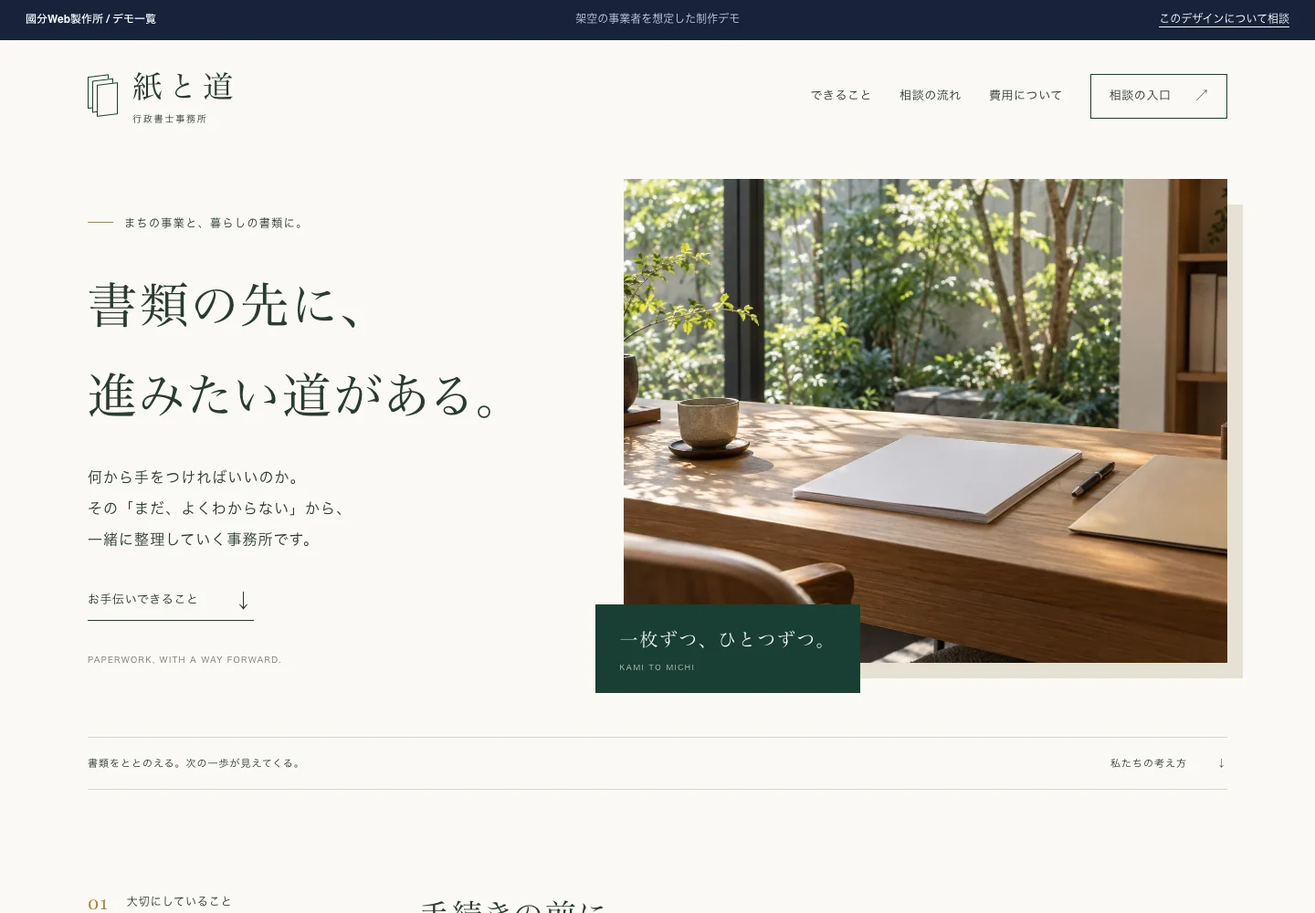
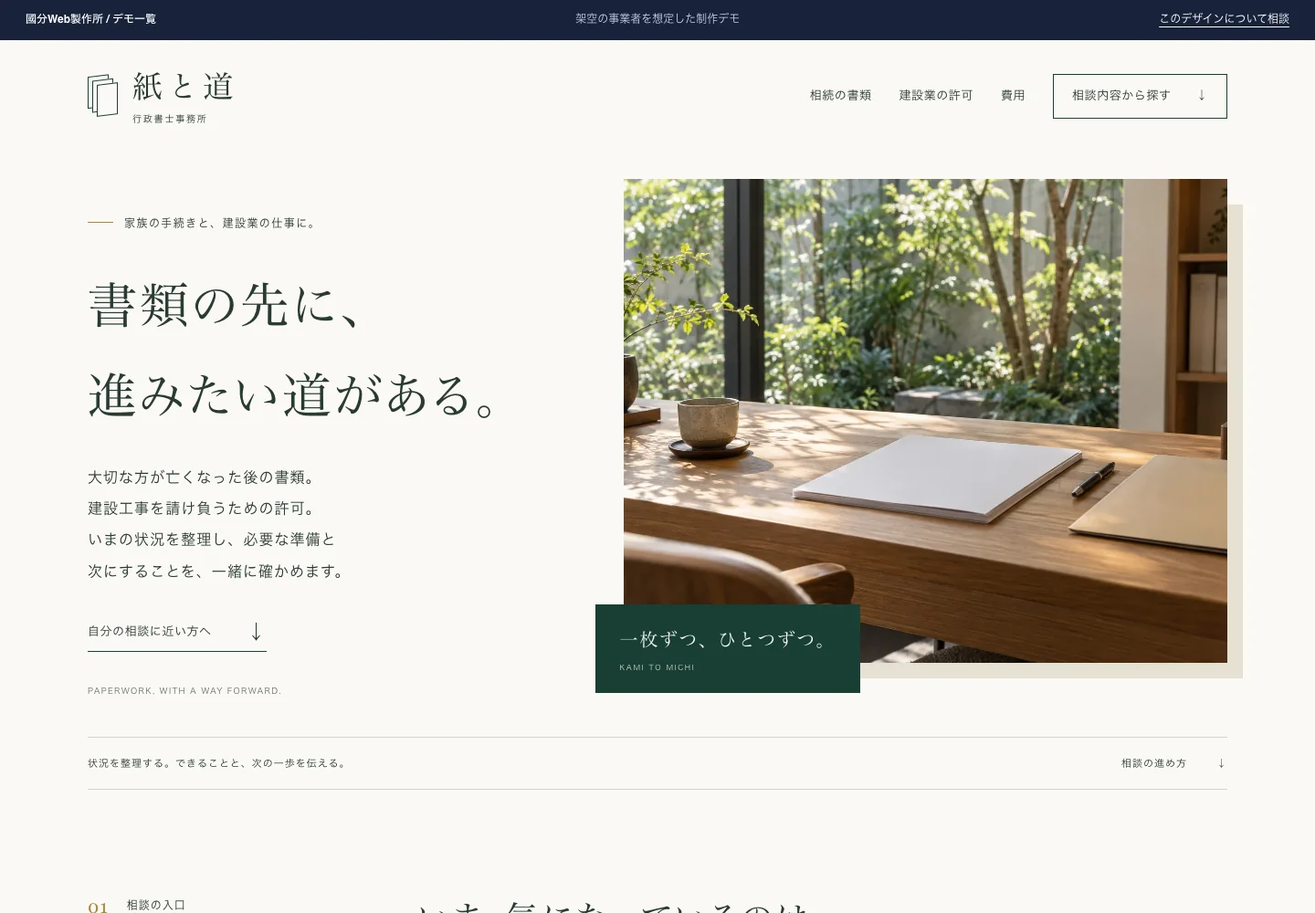
Rewrite legal demo around inheritance and construction permits

diff --git a/demos/legal/index.html b/demos/legal/index.html
@@ -4,89 +4,96 @@
   <meta charset="utf-8">
   <meta name="viewport" content="width=device-width, initial-scale=1">
   <meta name="robots" content="noindex,follow">
-  <meta name="description" content="架空の行政書士事務所「紙と道」を想定した、國分Web製作所のウェブサイト制作デモ。業務の範囲、準備、費用、相談の流れを丁寧に伝えるデザインです。">
+  <meta name="description" content="相続の書類づくりと建設業許可を、相談者の状況から案内する行政書士事務所の制作デモ。専門用語の注釈、依頼できる範囲、準備と費用を整理した國分Web製作所の制作例です。">
   <meta name="theme-color" content="#193f35">
-  <title>紙と道 行政書士事務所｜制作デモ</title>
+  <title>相続・建設業許可｜紙と道 行政書士事務所｜制作デモ</title>
   <link rel="icon" href="../../favicon.svg" type="image/svg+xml">
   <link rel="stylesheet" href="../demo.css">
-  <link rel="stylesheet" href="style.css">
+  <link rel="stylesheet" href="style.css?v=20260926.1">
 </head>
 <body>
   <a class="skip-link" href="#main">本文へ移動</a>
   <aside class="demo-notice" aria-label="制作デモの案内"><a href="../../index.html#demos">國分Web製作所 / デモ一覧</a><span>架空の事業者を想定した制作デモ</span><a href="../../contact.html?demo=legal">このデザインについて相談</a></aside>
   <header class="site-header wrap">
-    <a class="brand" href="#" aria-label="紙と道 行政書士事務所 トップ">
-      <span class="brand-mark" aria-hidden="true"><i></i><i></i><i></i></span>
-      <span><b>紙と道</b><small>行政書士事務所</small></span>
-    </a>
-    <nav aria-label="ページ内メニュー">
-      <a href="#services">できること</a><a href="#flow">相談の流れ</a><a href="#fees">費用について</a><a class="nav-contact" href="#contact">相談の入口 <span aria-hidden="true">↗</span></a>
-    </nav>
+    <a class="brand" href="#" aria-label="紙と道 行政書士事務所 トップ"><span class="brand-mark" aria-hidden="true"><i></i><i></i><i></i></span><span><b>紙と道</b><small>行政書士事務所</small></span></a>
+    <nav aria-label="ページ内メニュー"><a href="#inheritance">相続の書類</a><a href="#construction">建設業の許可</a><a href="#fees">費用</a><a class="nav-contact" href="#services">相談内容から探す <span aria-hidden="true">↓</span></a></nav>
   </header>
 
   <main id="main">
     <section class="hero wrap" aria-labelledby="hero-title">
       <div class="hero-copy">
-        <p class="eyebrow"><span></span> まちの事業と、暮らしの書類に。</p>
+        <p class="eyebrow"><span></span> 家族の手続きと、建設業の仕事に。</p>
         <h1 id="hero-title">書類の先に、<br>進みたい道がある。</h1>
-        <p class="hero-description">何から手をつければいいのか。<br>その「まだ、よくわからない」から、<br>一緒に整理していく事務所です。</p>
-        <a class="text-link" href="#services">お手伝いできること <span aria-hidden="true">↓</span></a>
+        <p class="hero-description">大切な方が亡くなった後の書類。<br>建設工事を請け負うための許可。<br>いまの状況を整理し、必要な準備と<br>次にすることを、一緒に確かめます。</p>
+        <a class="text-link" href="#services">自分の相談に近い方へ <span aria-hidden="true">↓</span></a>
         <p class="hero-en">PAPERWORK, WITH A WAY FORWARD.</p>
       </div>
-      <figure class="hero-photo">
-        <img src="images/hero.webp" width="1536" height="1024" alt="緑を望む窓辺の相談机に、白紙の書類とペンが整えられている" fetchpriority="high">
-        <figcaption><span>一枚ずつ、ひとつずつ。</span><small>KAMI TO MICHI</small></figcaption>
-      </figure>
-      <div class="hero-bottom"><span>書類をととのえる。次の一歩が見えてくる。</span><a href="#approach">私たちの考え方 <span aria-hidden="true">↓</span></a></div>
+      <figure class="hero-photo"><img src="images/hero.webp" width="1536" height="1024" alt="緑を望む窓辺の相談机に、白紙の書類とペンが整えられている。AI生成のイメージ。" fetchpriority="high"><figcaption><span>一枚ずつ、ひとつずつ。</span><small>KAMI TO MICHI</small></figcaption></figure>
+      <div class="hero-bottom"><span>状況を整理する。できることと、次の一歩を伝える。</span><a href="#flow">相談の進め方 <span aria-hidden="true">↓</span></a></div>
     </section>
 
-    <section class="approach section wrap" id="approach" aria-labelledby="approach-title">
-      <div class="section-label"><span class="number">01</span><span>大切にしていること<small>OUR APPROACH</small></span></div>
-      <div class="approach-main">
-        <h2 id="approach-title">手続きの前に、<br>お話を聞くことから。</h2>
-        <div class="approach-text"><p>お店を始めたい。事業の書類を見直したい。<br class="desktop-br">けれど、何が必要なのかはまだ曖昧。</p><p>うまく説明できなくても、大丈夫です。<br>いまの状況と、これからしたいことを伺い、<br class="desktop-br">必要な確認を一つずつ整理します。</p><p>内容を確認し、対応できる範囲をご案内。<br class="desktop-br">専門用語も、そのままにはしません。</p></div>
+    <section class="route-section section wrap" id="services" aria-labelledby="services-title">
+      <div class="section-top"><div class="section-label"><span class="number">01</span><span>相談の入口<small>START WITH YOUR SITUATION</small></span></div><div><h2 id="services-title">いま、気になっているのは<br>どちらのことですか。</h2><p class="section-lead">手続きの名前を知らなくても、ここから探せます。</p></div></div>
+      <div class="route-list">
+        <a class="route" href="#inheritance"><span class="route-letter">A</span><div><span class="route-context">ご家族のこと</span><h3>誰が、何を受け継ぐのか。<br>書類を整理したい。</h3><p>相続の調査・書類作成、遺言の準備</p><p class="term-note">※ 相続：亡くなった方の財産や借金などを受け継ぐこと。遺言：亡くなった後の財産の渡し方などについて、法律で定められた形式で意思を残すこと。</p></div><span class="route-arrow" aria-hidden="true">↓</span></a>
+        <a class="route" href="#construction"><span class="route-letter">B</span><div><span class="route-context">建設業のお仕事</span><h3>許可を取りたい。<br>更新や届出を進めたい。</h3><p>建設業許可の申請・取得後の手続き</p><p class="term-note">※ 建設業許可：一定の建設工事を請け負うために必要な、行政の許可。すべての工事で必要になるわけではありません。</p></div><span class="route-arrow" aria-hidden="true">↓</span></a>
       </div>
-      <figure class="hands-photo"><img src="images/hands.webp" width="1536" height="1024" alt="相談机で無地のファイルを一つずつ整理する手元" loading="lazy"><figcaption>「何をしたいか」から、必要なことを整理します。</figcaption></figure>
+      <p class="route-footnote">以下は、実際の制度・業務をもとに構成した架空の事務所のサービス案内です。</p>
     </section>
 
-    <section class="services section" id="services" aria-labelledby="services-title">
-      <div class="wrap">
-        <div class="section-top"><div class="section-label"><span class="number">02</span><span>お手伝いできること<small>OUR SERVICES</small></span></div><h2 id="services-title">話したいことから、<br>見つけてください。</h2></div>
-        <div class="service-list">
-          <article class="service-row"><span class="service-index">A</span><div class="service-heading"><p>事業を始める方へ</p><h3>お店や事業の<br>手続きの整理</h3></div><div class="service-detail"><p>やりたい事業の内容や場所を伺い、手続きに向けて確認することや、準備する書類を整理します。</p><dl><dt>たとえば</dt><dd>許認可に関する書類の準備相談<br>開業までの確認事項の整理</dd></dl></div></article>
-          <article class="service-row"><span class="service-index">B</span><div class="service-heading"><p>事業を続ける方へ</p><h3>日々の書類を、<br>わかる形に</h3></div><div class="service-detail"><p>手元にある書類と、ご相談の目的を確認。必要な情報や不足している資料を見えるようにします。</p><dl><dt>たとえば</dt><dd>事業に関する書類の棚卸し<br>手続きに向けた資料の整理</dd></dl></div></article>
-          <article class="service-row"><span class="service-index">C</span><div class="service-heading"><p>相談先に迷っている方へ</p><h3>はじめの相談、<br>状況の整理</h3></div><div class="service-detail"><p>「これは相談してよいこと？」という段階から。内容を伺い、当事務所で対応できる範囲をお伝えします。</p><dl><dt>たとえば</dt><dd>相談したいことの言語化<br>依頼する前の進め方の確認</dd></dl></div></article>
-        </div>
-        <div class="scope-note"><span aria-hidden="true">※</span><p>掲載内容は、架空の事務所を想定したサービスの例です。個別の内容を確認したうえで対応範囲をご案内する構成としており、手続きの可否や結果を保証するものではありません。</p></div>
-        <div class="business-story"><figure><img src="images/atelier.webp" width="1536" height="1024" alt="木の扉と鉢植えのある、小さな工房をイメージした店舗外観" loading="lazy"></figure><div><p class="eyebrow">その先にある、日々のために。</p><h3>小さなはじまりに、<br>丁寧な準備を。</h3><p>夢中になれる仕事を、続けていけるように。<br>書類の向こうにある、あなたの思いも<br>大切にしたいと考えています。</p><a class="text-link" href="#flow">ご相談からの流れ <span aria-hidden="true">→</span></a></div></div>
-      </div>
-    </section>
+    <section class="service-chapter inheritance section" id="inheritance" aria-labelledby="inheritance-title"><div class="wrap">
+      <div class="chapter-intro"><div><div class="section-label"><span class="number">02 / A</span><span>相続の書類づくり<small>FOR YOUR FAMILY</small></span></div><h2 id="inheritance-title">何を集めるか。<br>誰と確かめるか。<br>そこから、順番に。</h2><p class="section-lead">「家族が亡くなったけれど、何から始めればよいか」。受け継ぐ人と財産を調べ、必要な書類を整えるお手伝いをします。</p><p class="term-note">※ 相続：亡くなった方の財産や借金などを受け継ぐこと。</p></div><figure><img src="images/hands.webp" width="1536" height="1024" alt="相談机でファイルを一つずつ確認する手元。AI生成のイメージ。" loading="lazy"><figcaption>手元にあるものと、これから確認するものを分けます。</figcaption></figure></div>
+      <h3 class="ledger-title">どこまで、お願いできますか。</h3>
+      <ol class="work-ledger">
+        <li><span class="work-no">01</span><div class="work-heading"><h4>受け継ぐ人を<br>確かめる</h4><p>家族関係が複雑で、誰の書類が必要か分からないときに。</p></div><div class="work-explanation"><p>戸籍を集めて、相続人を調べます。確認できた家族関係を図に整理し、手続きに関わる人を見えるようにします。</p><p class="term-note">※ 戸籍：出生・結婚など、身分や親族関係を記録した公的な書類。<br>※ 相続人：法律上、財産を受け継ぐ立場にある人。</p><p class="work-result"><span>整理するもの</span>関係者の一覧・家族関係の図</p></div></li>
+        <li><span class="work-no">02</span><div class="work-heading"><h4>財産と借入れを<br>一覧にする</h4><p>預金や家の資料が、あちこちに分かれているときに。</p></div><div class="work-explanation"><p>銀行の資料や土地・建物の資料などから、財産の内容を調べます。借入れなども確認し、分かっていることと追加で確認することを分けます。</p><p class="term-note">※ 財産目録：預貯金・不動産・借入金などをまとめた一覧。調査で確認できた内容を記載します。</p><p class="work-result"><span>整理するもの</span>財産目録・追加確認が必要な項目</p></div></li>
+        <li><span class="work-no">03</span><div class="work-heading"><h4>決まった分け方を<br>書類にする</h4><p>受け継ぐ人全員で、分け方に合意できているときに。</p></div><div class="work-explanation"><p>合意した内容を確認し、遺産分割協議書を作成します。話し合いの結論を、後の手続きで使える書類に整える業務です。</p><p class="term-note">※ 遺産分割協議書：受け継ぐ人全員が合意した、財産の分け方を記す書類。意見の対立を解決したり、交渉を代わったりする業務は含みません。</p><p class="work-result"><span>作成するもの</span>合意内容を記載した書類</p></div></li>
+      </ol>
+      <aside class="branch-note" aria-labelledby="will-title"><p class="small-label">これからの備えを考えたい方へ</p><h3 id="will-title">財産の渡し方を、今のうちに残す。</h3><p>遺言書を作りたい場合は、誰に何を残したいかを伺い、内容の整理や必要書類の準備を支援します。</p><p class="term-note">※ 遺言書：亡くなった後の財産の渡し方などを、法律で定められた形式で記す書類。方式により必要な準備が異なります。</p></aside>
+      <div class="scope-boundary"><h3>別の専門家が担当すること</h3><p>次の業務は当事務所で代行せず、内容に合う相談先をご案内します。</p><dl><div><dt>分け方をめぐる争い・交渉</dt><dd>弁護士へ</dd></div><div><dt>相続登記<span class="term-note">※ 土地・建物の所有者の記録を、受け継いだ人へ変更する手続き。</span></dt><dd>司法書士などへ</dd></div><div><dt>相続税の申告・税額の相談<span class="term-note">※ 相続税：受け継いだ財産などに応じてかかる税金。申告では、財産や税額などを税務署に届け出ます。</span></dt><dd>税理士へ</dd></div></dl><p class="scope-source">業務範囲の確認先：<a href="https://www.gyosei.or.jp/service/testament" target="_blank" rel="noopener noreferrer">日本行政書士会連合会「遺言・相続」 ↗</a></p></div>
+      <div class="topic-preparation"><div><p class="small-label">相続の相談で、最初に伺うこと</p><h3>まずは、この3つから。</h3></div><ol><li>亡くなった時期と、ご本人との関係</li><li>分かっている財産・借入れのこと</li><li>遺言書の有無と、いま困っていること</li></ol><p>新しく書類を集める前でも大丈夫です。手元にある資料から確認します。借入れや手続きの期限が気になる場合は、最初にお伝えください。</p></div>
+      <div class="chapter-actions"><a class="text-link" href="#flow">相談の流れ・費用を確認する <span aria-hidden="true">↓</span></a><a class="quiet-link" href="#construction">建設業の許可についても見る ↓</a></div>
+    </div></section>
+
+    <section class="service-chapter construction section" id="construction" aria-labelledby="construction-title"><div class="wrap">
+      <div class="chapter-intro"><div><div class="section-label"><span class="number">03 / B</span><span>建設業の許可<small>FOR YOUR BUSINESS</small></span></div><h2 id="construction-title">取りたい許可と、<br>今ある資料。<br>間にある準備を明確に。</h2><p class="section-lead">初めての申請も、許可を取った後も。工事の内容と現在の体制を伺い、条件の確認から書類の作成・申請まで支援します。</p><p class="term-note">※ 建設業許可：一定の建設工事を請け負うために必要な、行政の許可。工事の種類や金額などによって要否が変わります。<br>※ 申請：許可などを求める手続き。届出：変更などの事実を行政に知らせる手続き。</p></div><figure><img src="images/construction.webp" width="1536" height="1024" alt="建設会社の机に並べたヘルメット、図面、相談用の書類。AI生成のイメージ。" loading="lazy"><figcaption>これから請け負いたい工事を、準備の出発点に。</figcaption></figure></div>
+      <h3 class="ledger-title">いまの状況から、選べます。</h3>
+      <ol class="work-ledger">
+        <li><span class="work-no">01</span><div class="work-heading"><h4>初めて<br>許可を取りたい</h4><p>取引先から許可について確認された。仕事の幅を広げたい。</p></div><div class="work-explanation"><p>工事の内容を伺い、必要な許可の種類と許可要件を確認します。経営の経験、営業所技術者等の資格や経験、資金、社会保険の加入状況などを資料で確認。申請書類を作成し、ご本人に代わって提出します。</p><p class="term-note">※ 許可要件：許可を受けるために満たす条件。<br>※ 営業所技術者等：工事の契約などを行う拠点に置く、資格や経験などの条件を満たす技術者。<br>※ 社会保険：ここでは健康保険・厚生年金保険・雇用保険。加入の対象かどうかも確認します。</p><p class="work-result"><span>まず整理するもの</span>現在の条件・足りない証明資料・申請の段取り</p></div></li>
+        <li><span class="work-no">02</span><div class="work-heading"><h4>許可を更新したい。<br>工事の種類を増やしたい。</h4><p>有効期限が近い。新しい種類の工事にも対応したい。</p></div><div class="work-explanation"><p>今の許可の内容と期限を確認し、更新に必要な書類を整えます。別の種類の工事にも許可が必要な場合は、追加する条件を確認して申請を支援します。</p><p class="term-note">※ 更新：有効期間の後も許可を続けるための手続き。<br>※ 業種追加：今の許可に、別の工事の種類を加える手続き。</p><p class="work-result"><span>まず確認するもの</span>許可の通知書・これまでに提出した書類</p></div></li>
+        <li><span class="work-no">03</span><div class="work-heading"><h4>毎年の報告や、<br>変更の届出をしたい</h4><p>決算が終わった。役員や事業所の所在地が変わった。<span class="term-note">※ 決算：一定期間の売上・費用・財産の状態などをまとめること。</span></p></div><div class="work-explanation"><p>決算変更届の作成・提出を支援します。所在地や役員などに変更があった場合も、何をいつまでに届け出るかを確認し、必要な書類を整えます。</p><p class="term-note">※ 決算変更届：1年ごとの工事実績や収支や財産の状況などを、許可を出した行政に報告する届出。税務署への税の申告とは別の手続きです。</p><p class="work-result"><span>整理するもの</span>届出の種類・期限・提出する書類</p></div></li>
+      </ol>
+      <aside class="deadline-note" aria-labelledby="deadline-title"><div><p class="small-label">許可を取った後も、確認する日があります。</p><h3 id="deadline-title">毎年の報告と、5年ごとの更新。</h3></div><dl><div><dt>更新申請</dt><dd>有効期間は<strong>5年</strong>。続ける場合は、満了日の<strong>30日前まで</strong>に申請します。</dd></div><div><dt>毎年の事業報告</dt><dd>決算変更届<span class="inline-note">（工事実績や収支や財産の状況の報告）</span>は、事業年度<span class="inline-note">（会社などが会計をまとめる1年間）</span>の終了後<strong>4か月以内</strong>に提出します。</dd></div></dl><p>役員・所在地などの変更には、変更内容ごとに別の届出期限があります。実際の申請先の案内で確認します。</p><p class="scope-source">確認先：<a href="https://www.mlit.go.jp/totikensangyo/const/1_6_bt_000080.html" target="_blank" rel="noopener noreferrer">国土交通省「建設業の許可とは」 ↗</a> ／ <a href="https://www.pref.tochigi.lg.jp/h01/work/kensetsugyou/kyoka/1281925868251.html" target="_blank" rel="noopener noreferrer">栃木県「許可に際する注意事項・変更届出等」 ↗</a></p></aside>
+      <div class="topic-preparation"><div><p class="small-label">建設業の相談で、最初に伺うこと</p><h3>書類の名前より、<br>仕事の内容から。</h3></div><ol><li>いま行っている工事と、今後請けたい工事</li><li>現在の許可の有無と、希望する時期</li><li>経営や工事の経験、資格が分かる資料の有無</li></ol><p>資料を全部そろえる必要はありません。今あるものを確認してから、追加で必要な証明資料をご案内します。許可を出すかどうかは行政が審査するため、取得をお約束するものではありません。</p></div>
+      <div class="chapter-actions"><a class="text-link" href="#flow">相談の流れ・費用を確認する <span aria-hidden="true">↓</span></a><a class="quiet-link" href="#inheritance">相続の書類についても見る ↑</a></div>
+    </div></section>
 
     <section class="flow section wrap" id="flow" aria-labelledby="flow-title">
-      <div class="section-top"><div class="section-label"><span class="number">03</span><span>相談の流れ<small>HOW WE WORK</small></span></div><h2 id="flow-title">見通しを持って、<br>一歩ずつ。</h2></div>
+      <div class="section-top"><div class="section-label"><span class="number">04</span><span>相談の流れ<small>HOW WE WORK</small></span></div><div><h2 id="flow-title">依頼する前に、<br>見通しをそろえる。</h2><p class="section-lead">相続も、建設業の許可も。最初にお話を伺い、対応できる範囲を確かめます。</p></div></div>
       <ol class="flow-list">
-        <li><span class="step">STEP <b>01</b></span><div><h3>いまの状況を伺う</h3><p>相談したいこと、目指していること、気になる時期。わかる範囲でお話しいただくところから始めます。</p></div><span class="step-tag">まずは整理から</span></li>
-        <li><span class="step">STEP <b>02</b></span><div><h3>範囲と費用をご案内</h3><p>確認できた内容をもとに、お手伝いできること、必要な資料、費用と進め方をご案内します。</p></div><span class="step-tag">ご依頼の前に確認</span></li>
-        <li><span class="step">STEP <b>03</b></span><div><h3>内容に合意して、準備へ</h3><p>業務の範囲と費用に納得いただいてから着手。次に何をするかを確かめながら進めます。</p></div><span class="step-tag">一つずつ進める</span></li>
+        <li><span class="step">STEP <b>01</b></span><div><h3>状況と、気になる時期を伺う</h3><p>何に困っているか、いつまでに進めたいかを確認します。期限があるものと、追加で調べることを分けます。</p></div><span class="step-tag">まだ未定でも大丈夫</span></li>
+        <li><span class="step">STEP <b>02</b></span><div><h3>業務の範囲と、見積りを確認する</h3><p>お任せいただくこと、ご本人にお願いすること、費用の内訳と時期の見通しをお伝えします。</p></div><span class="step-tag">依頼前に内容を確認</span></li>
+        <li><span class="step">STEP <b>03</b></span><div><h3>合意してから、書類の準備へ</h3><p>ご依頼後、必要な調査や書類作成を進めます。内容を確認いただきながら、提出が必要なものはその手続きまで支援します。</p></div><span class="step-tag">次の作業を共有</span></li>
       </ol>
-      <div class="preparation"><div><span class="small-label">相談前の小さなメモ</span><h3>最初から、<br>全部揃わなくても。</h3></div><div><p>次の3つがあると、お話が整理しやすくなります。<br>未定の項目は、未定のままでお聞かせください。</p><ul><li>したいこと・困っていること</li><li>希望する時期</li><li>いま手元にある関連書類</li></ul><small>追加で必要な資料は、内容を確認したうえでご案内します。</small></div></div>
     </section>
 
     <section class="fees section" id="fees" aria-labelledby="fees-title"><div class="wrap fees-layout">
-      <div class="fees-intro"><div class="section-label"><span class="number">04</span><span>費用について<small>FEES &amp; SCOPE</small></span></div><h2 id="fees-title">何にかかる費用か。<br>そこから、明確に。</h2><p>ご依頼前に、業務範囲と費用をご案内します。<br>金額だけでなく、その内訳も<br>確認できることを大切にしています。</p></div>
-      <div class="estimate"><p class="estimate-heading">お見積りでお伝えすること<span aria-hidden="true">↗</span></p><dl><div><dt><span>01</span> 業務の範囲</dt><dd>何を、どこまでお手伝いするか</dd></div><div><dt><span>02</span> 業務に対する費用</dt><dd>内容・書類の量・必要な確認に応じた費用</dd></div><div><dt><span>03</span> その他の費用</dt><dd>手続きに伴う費用や実費がある場合の内訳</dd></div><div><dt><span>04</span> 進め方と時期</dt><dd>着手に必要なことと、今後の見通し</dd></div></dl><p class="estimate-footnote">途中で業務の追加や変更が必要になった場合も、<br class="desktop-br">内容と費用を確認してから進める方針です。</p></div>
+      <div class="fees-intro"><div class="section-label"><span class="number">05</span><span>費用について<small>FEES &amp; SCOPE</small></span></div><h2 id="fees-title">仕事への費用と、<br>手続きにかかる費用。</h2><p>見積りでは、この2つを分けてお伝えします。<br>追加の作業が必要になった場合も、<br>内容と費用を確認してから進めます。</p><p class="fee-demo-note">このデモでは架空の料金を設定せず、見積りで確認する項目を紹介しています。</p></div>
+      <div class="estimate"><h3 class="estimate-heading">費用の内訳<span aria-hidden="true">↗</span></h3><dl><div><dt>報酬</dt><dd>調査・書類作成・申請の代理など、行政書士の仕事に対してお支払いいただく費用。</dd></div><div><dt>実費</dt><dd>証明書の取得費、郵送料、行政に納める申請手数料など。必要なものを分けて記載します。</dd></div></dl><h3 class="estimate-subheading">見積額が変わる主な条件</h3><dl><div><dt>相続の書類</dt><dd>調べる家族関係、財産の種類、集める書類、依頼する作業の範囲。</dd></div><div><dt>建設業の許可</dt><dd>初めての取得か更新かなどの申請の種類、許可が必要な工事の種類、経験などを証明する資料の状況。</dd></div></dl><p class="estimate-footnote">別の専門家への依頼が必要な場合、その費用が含まれるかも確認します。</p></div>
     </div></section>
 
-    <section class="faq section wrap" aria-labelledby="faq-title"><div><div class="section-label"><span class="number">05</span><span>よくあるご質問<small>QUESTIONS</small></span></div><h2 id="faq-title">小さな疑問も、<br>そのままにせず。</h2></div><div class="faq-list">
-      <details><summary><span class="q">Q.</span> 何を相談すればよいか、まだ曖昧です。<span class="plus" aria-hidden="true"></span></summary><p>「こんなことをしたい」「この書類が気になっている」など、わかる範囲の言葉から伺う想定です。内容を一緒に整理し、対応できる範囲をご案内します。</p></details>
-      <details><summary><span class="q">Q.</span> 「許認可」などの言葉がよくわかりません。<span class="plus" aria-hidden="true"></span></summary><p>このサイトでは、事業などに関わる行政の許可や認可をまとめて「許認可」と表現しています。相談時には用語を言い換えながら、ご相談内容とどう関わるかを説明する想定です。</p></details>
-      <details><summary><span class="q">Q.</span> 相談したら、必ず依頼が必要ですか。<span class="plus" aria-hidden="true"></span></summary><p>業務範囲と費用を確認してから、ご依頼を検討いただく流れを想定しています。相談の条件についても、受付時に明示する設計です。</p></details>
-      <details><summary><span class="q">Q.</span> この事務所へ、実際に相談できますか。<span class="plus" aria-hidden="true"></span></summary><p>「紙と道 行政書士事務所」はウェブサイトの制作例として設定した架空の事業者です。実際の業務相談は受け付けていません。同様のウェブサイトの制作は、<a href="../../contact.html?demo=legal">國分Web製作所へご相談ください</a>。</p></details>
+    <section class="faq section wrap" aria-labelledby="faq-title"><div><div class="section-label"><span class="number">06</span><span>よくあるご質問<small>QUESTIONS</small></span></div><h2 id="faq-title">気になることを、<br>先に確かめる。</h2></div><div class="faq-list">
+      <details><summary><span class="q">Q.</span> 書類を全部集めてから相談するのですか。<span class="plus" aria-hidden="true"></span></summary><p>手元にあるものから始める流れです。相談内容によって必要な書類は変わるので、新しく証明書を取り寄せる前に確認します。内容や時期が未定の項目は、そのままお伝えください。</p></details>
+      <details><summary><span class="q">Q.</span> 家族に借金があったかもしれません。<span class="plus" aria-hidden="true"></span></summary><p>受け継ぐものには借金なども含まれます。相続放棄<span class="inline-note">（家庭裁判所で、財産も借金も受け継がないために行う手続き）</span>を検討する場合には期限があるため、書類の整理を待たずに、裁判所や弁護士などへ早めに確認してください。当事務所で裁判所への手続きを代行することはありません。<a href="https://www.courts.go.jp/saiban/syurui/syurui_kazi/kazi_06_13/index.html" target="_blank" rel="noopener noreferrer">裁判所の案内を見る ↗</a></p></details>
+      <details><summary><span class="q">Q.</span> 工事の金額だけで、許可が必要か分かりますか。<span class="plus" aria-hidden="true"></span></summary><p>金額だけでは判断できません。軽微な建設工事<span class="inline-note">（法律上、建設業許可がなくても請け負える範囲の工事）</span>だけを扱う場合は例外ですが、その範囲は工事の種類によって異なります。工事の内容、税込みの金額、発注者が用意する材料などを確認します。<a href="https://www.mlit.go.jp/totikensangyo/const/1_6_bt_000080.html" target="_blank" rel="noopener noreferrer">国土交通省で条件を確認する ↗</a></p></details>
+      <details><summary><span class="q">Q.</span> この事務所へ、実際に依頼できますか。<span class="plus" aria-hidden="true"></span></summary><p>「紙と道 行政書士事務所」は架空の事業者で、実際の業務は受け付けていません。このように専門的なサービスを分かりやすく伝えるサイトの制作は、<a href="../../contact.html?demo=legal">國分Web製作所へご相談ください</a>。</p></details>
     </div></section>
 
-    <section class="contact" id="contact" aria-labelledby="contact-title"><div class="contact-photo"><img src="images/room.webp" width="1536" height="1024" alt="木の家具、リネンの椅子、植物を配した落ち着いた相談室のイメージ" loading="lazy"></div><div class="contact-copy"><p class="eyebrow">相談しやすさは、伝わりやすさから。</p><h2 id="contact-title">あなたの仕事にも、<br>わかりやすい入口を。</h2><p>業務の範囲、費用の考え方、相談までの流れ。<br>言葉とデザインを整えて、<br>はじめての方が一歩を踏み出せるサイトに。</p><a class="contact-button" href="../../contact.html?demo=legal">このデザインの制作を相談する <span aria-hidden="true">↗</span></a><small>國分Web製作所のお問い合わせページへ移動します。</small></div></section>
+    <section class="reference-section wrap" aria-labelledby="reference-title"><details><summary id="reference-title">掲載内容の確認先 <span>公的機関・職能団体の資料</span></summary><div><p>業務と制度は以下の資料を確認し、相談者が判断する順序に合わせて独自に構成・執筆しています。確認日：2026年9月26日。個別の必要書類・条件は申請先や状況により異なります。</p><ul><li><a href="https://www.gyosei.or.jp/service/testament" target="_blank" rel="noopener noreferrer">日本行政書士会連合会：遺言・相続 ↗</a></li><li><a href="https://fukushima-gyosei.jp/about01/yuigon/" target="_blank" rel="noopener noreferrer">福島県行政書士会：遺言・相続 ↗</a></li><li><a href="https://www.gyosei.or.jp/service/construction" target="_blank" rel="noopener noreferrer">日本行政書士会連合会：建設業・宅地建物取引業 ↗</a></li><li><a href="https://www.mlit.go.jp/totikensangyo/const/1_6_bt_000080.html" target="_blank" rel="noopener noreferrer">国土交通省：建設業の許可とは ↗</a></li><li><a href="https://www.mlit.go.jp/totikensangyo/const/1_6_bt_000082.html" target="_blank" rel="noopener noreferrer">国土交通省：許可の要件 ↗</a></li><li><a href="https://www.pref.tochigi.lg.jp/h01/work/kensetsugyou/kyoka/1281925868251.html" target="_blank" rel="noopener noreferrer">栃木県：許可に際する注意事項・変更届出等 ↗</a></li><li><a href="https://www.courts.go.jp/saiban/syurui/syurui_kazi/kazi_06_13/index.html" target="_blank" rel="noopener noreferrer">裁判所：相続の放棄の申述 ↗</a></li></ul></div></details></section>
+
+    <section class="contact" id="contact" aria-labelledby="contact-title"><div class="contact-photo"><img src="images/room.webp" width="1536" height="1024" alt="木の家具と植物を配した落ち着いた相談室。AI生成のイメージ。" loading="lazy"></div><div class="contact-copy"><p class="eyebrow">この案内は、國分Web製作所の制作デモです。</p><h2 id="contact-title">専門的な仕事に、<br>わかる入口を。</h2><p>知りたい順に、情報を並べる。<br>専門用語は、意味がその場でわかるように。<br>あなたの仕事も、相談する人の視点から<br>言葉と構成を整えます。</p><a class="contact-button" href="../../contact.html?demo=legal">このようなサイトの制作を相談する <span aria-hidden="true">↗</span></a><small>國分Web製作所のお問い合わせページへ移動します。</small></div></section>
   </main>
 
-  <footer class="site-footer wrap"><div class="footer-top"><a class="brand" href="#"><span class="brand-mark" aria-hidden="true"><i></i><i></i><i></i></span><span><b>紙と道</b><small>行政書士事務所</small></span></a><p>書類をととのえる。<br>次の一歩が見えてくる。</p><a class="back-top" href="#">PAGE TOP <span aria-hidden="true">↑</span></a></div><div class="demo-disclosure"><p>このページは、國分Web製作所が制作したウェブサイトのデモです。<br>事業者名・事務所・サービス内容はすべて架空の設定であり、実際の行政書士業務を提供するものではありません。掲載写真はすべてAIで生成したイメージです。</p><a href="../../index.html#demos">國分Web製作所 / 制作デモ一覧 <span aria-hidden="true">↗</span></a></div><div class="copyright"><span>© KAMI TO MICHI — FICTIONAL WEBSITE DEMO</span><span>DESIGNED BY KOKUBUN WEB</span></div></footer>
+  <footer class="site-footer wrap"><div class="footer-top"><a class="brand" href="#"><span class="brand-mark" aria-hidden="true"><i></i><i></i><i></i></span><span><b>紙と道</b><small>行政書士事務所</small></span></a><p>書類をととのえる。<br>次の一歩が見えてくる。</p><a class="back-top" href="#">PAGE TOP <span aria-hidden="true">↑</span></a></div><div class="demo-disclosure"><p>國分Web製作所による制作デモです。事務所・受付体制は架空の設定で、実際の行政書士業務を提供するものではありません。業務紹介は公的資料等に基づく一般的な案内です。写真はすべてAIで生成したイメージです。</p><a href="../../index.html#demos">國分Web製作所 / 制作デモ一覧 <span aria-hidden="true">↗</span></a></div><div class="copyright"><span>© KAMI TO MICHI — FICTIONAL WEBSITE DEMO</span><span>DESIGNED BY KOKUBUN WEB</span></div></footer>
 </body>
 </html>

diff --git a/demos/legal/style.css b/demos/legal/style.css
@@ -10,3 +10,88 @@
 /* Plain explanations should remain comfortable to read. */
 .hero-description,.approach-text p,.service-detail>p,.business-story>div>p:not(.eyebrow),.flow-list p,.preparation p,.fees-intro>p,.faq-list details>p,.contact-copy>p:not(.eyebrow){font-size:16px}
 .service-detail dl,.estimate dd{font-size:14px}
+
+/* Two reading paths, with explanations beside the words they explain. */
+.section-lead{max-width:40em;font-size:16px;line-height:2;margin-top:20px}
+.term-note{font-family:var(--sans);font-size:14px;line-height:1.9;letter-spacing:.02em;color:#526254;margin-top:12px}
+.inline-note{color:#526254}
+.route-list{display:grid;grid-template-columns:1fr 1fr;border-block:1px solid var(--line)}
+.route{display:grid;grid-template-columns:30px minmax(0,1fr) 28px;gap:18px;padding:35px 30px 35px 0}
+.route+.route{border-left:1px solid var(--line);padding-left:36px;padding-right:0}
+.route-letter{color:#806329;font:24px/1.5 Georgia,serif}
+.route-context{font-size:13px;color:var(--muted)}
+.route h3{font-size:27px;line-height:1.7;margin:9px 0 19px;letter-spacing:.03em}
+.route p:not(.term-note){font-size:15px}
+.route-arrow{align-self:center;font-size:25px;transition:transform .2s}
+.route:hover .route-arrow{transform:translateY(5px)}
+.route:hover h3{text-decoration:underline;text-decoration-thickness:1px;text-underline-offset:7px}
+.route-footnote{font-size:13px;color:#526254;margin-top:20px}
+.inheritance{background:var(--cream)}
+.chapter-intro{display:grid;grid-template-columns:1.1fr 1fr;gap:80px;align-items:center;margin-bottom:60px}
+.chapter-intro h2{margin-top:30px;font-size:36px}
+.chapter-intro .section-lead{max-width:32em}
+.chapter-intro figure{padding-left:22px;border-left:1px solid var(--line)}
+.chapter-intro img{aspect-ratio:1.12;object-fit:cover}
+.chapter-intro figcaption{font-size:12px;line-height:1.8;color:#526254;margin-top:13px}
+.ledger-title{font:500 21px/1.8 var(--sans);letter-spacing:.03em;margin-bottom:23px}
+.work-ledger{list-style:none;border-top:1px solid #b6c1b2}
+.work-ledger>li{display:grid;grid-template-columns:44px minmax(0,.8fr) minmax(0,1.2fr);gap:35px;padding-block:34px;border-bottom:1px solid #b6c1b2}
+.work-no{font:22px/1.7 Georgia,serif;color:#806329}
+.work-heading h4{font:500 27px/1.65 var(--serif);margin:0 0 14px;letter-spacing:.03em}
+.work-heading>p{font-size:14px;max-width:23em;line-height:1.9;color:#526254}
+.work-explanation>p:not(.term-note):not(.work-result){font-size:16px;line-height:2}
+.work-result{font-size:14px;line-height:1.8;margin-top:20px;padding-top:13px;border-top:1px dotted #a4b09f}
+.work-result>span{display:block;font-size:12px;color:#526254;margin-bottom:4px}
+.branch-note{border-left:2px solid #a18a54;margin:38px 0;padding:4px 0 4px 26px;max-width:880px}
+.branch-note h3{font-size:25px;margin-bottom:15px}
+.branch-note .small-label,.topic-preparation .small-label,.deadline-note .small-label{font-size:12px;color:#526254}
+.branch-note>p:not(.term-note):not(.small-label){font-size:16px;line-height:2}
+.scope-boundary{padding:28px 32px;background:#f8f7f0;margin-top:36px;border:1px solid #c8cfbf}
+.scope-boundary h3{font:500 20px/1.8 var(--sans);margin-bottom:10px}
+.scope-boundary>p{font-size:15px}
+.scope-boundary dl{margin-top:20px}
+.scope-boundary dl>div{display:grid;grid-template-columns:1fr 170px;gap:24px;border-top:1px solid var(--line);padding:15px 0;font-size:15px}
+.scope-boundary dt .term-note{display:block;margin-top:4px}
+.scope-boundary dd{font-weight:600}
+.scope-source,.scope-boundary>.scope-source{font-size:12px;line-height:2;margin-top:16px;color:#526254}
+.scope-source a,.reference-section a{color:var(--green);text-decoration:underline;text-underline-offset:4px}
+.topic-preparation{display:grid;grid-template-columns:1fr 1.15fr;gap:25px 40px;margin-top:40px;border-block:1px solid #b6c1b2;padding-block:28px}
+.topic-preparation h3{font-size:26px}
+.topic-preparation ol{padding-left:23px;align-self:center;font-size:16px}
+.topic-preparation li+li{margin-top:8px}
+.topic-preparation>p{grid-column:2;font-size:14px;color:#526254;line-height:2}
+.chapter-actions{display:flex;align-items:center;justify-content:space-between;gap:28px;margin-top:29px}
+.quiet-link{font-size:13px;text-decoration:underline;text-underline-offset:5px}
+.deadline-note{padding:30px 34px;background:var(--cream);margin-top:38px}
+.deadline-note h3{font-size:27px}
+.deadline-note dl{margin:25px 0 20px}
+.deadline-note dl>div{display:grid;grid-template-columns:180px 1fr;gap:20px;padding:15px 0;border-top:1px solid #c5cebd;font-size:16px}
+.deadline-note strong{font-weight:600;border-bottom:1px solid #a18a54}
+.deadline-note>p:not(.scope-source){font-size:14px;color:#526254}
+.fee-demo-note{font-size:13px!important;max-width:32em}
+.estimate dl>div{grid-template-columns:31% 69%;align-items:start}
+.estimate dt{font-size:15px}
+.estimate dd{font-size:15px}
+.estimate-footnote{font-size:13px}
+.flow-list h3{font-size:23px}
+.step-tag{font-size:12px}
+.faq-list summary{font-size:16px}
+.faq-list details>p{font-size:16px}
+.reference-section{padding-bottom:70px}
+.reference-section details{border-block:1px solid var(--line);padding-block:20px}
+.reference-section summary{cursor:pointer;font-size:15px}
+.reference-section summary>span{font-size:12px;color:#526254;margin-left:20px}
+.reference-section details>div{font-size:14px;line-height:2;margin-top:20px;max-width:950px}
+.reference-section ul{padding-left:22px;margin-top:18px}
+.reference-section li+li{margin-top:7px}
+.contact-copy>small,.demo-disclosure p{font-size:12px}
+@media(max-width:1100px){.chapter-intro{gap:42px}.chapter-intro h2{font-size:31px}.route{gap:12px;padding-right:23px}.route+.route{padding-left:23px}.route h3{font-size:24px}.work-ledger>li{gap:22px;grid-template-columns:30px minmax(0,.8fr) minmax(0,1.2fr)}.work-heading h4{font-size:24px}.chapter-actions .text-link{gap:18px}}
+@media(max-width:800px){.hero{grid-template-columns:1fr 1fr}.hero-description{font-size:16px}.hero-photo>img{height:470px}.route-list{grid-template-columns:1fr}.route,.route+.route{padding:27px 0;border-left:0;grid-template-columns:30px minmax(0,1fr) 28px;gap:18px}.route+.route{border-top:1px solid var(--line)}.route h3 br{display:none}.route h3{font-size:26px}.route .term-note{max-width:43em}.chapter-intro{grid-template-columns:1fr 1fr;gap:26px}.chapter-intro h2{font-size:28px;letter-spacing:.03em}.chapter-intro figure{padding-left:0;border:0}.chapter-intro img{aspect-ratio:.72}.work-ledger>li{grid-template-columns:28px minmax(0,1fr);gap:12px 20px}.work-heading{grid-column:2}.work-heading h4 br{display:none}.work-heading>p{max-width:none}.work-explanation{grid-column:2}.scope-boundary{padding:24px}.scope-boundary dl>div{grid-template-columns:1fr 125px}.topic-preparation{grid-template-columns:1fr;gap:20px}.topic-preparation>p{grid-column:1}.chapter-actions{align-items:flex-start;flex-direction:column;gap:20px}.flow-list li{grid-template-columns:65px 1fr}.step-tag{grid-column:2;justify-self:start;margin-top:12px}.flow-list p{padding-right:0}.flow-list h3{font-size:23px}.estimate dt,.estimate dd{font-size:15px}.contact .eyebrow{font-size:11px}}
+@media(max-width:540px){.hero-description{font-size:16px}.hero-photo>img{height:auto}.route h3{font-size:24px;line-height:1.7}.route h3 br{display:block}.route{grid-template-columns:22px minmax(0,1fr) 24px;gap:12px}.route+.route{grid-template-columns:22px minmax(0,1fr) 24px;gap:12px}.route p:not(.term-note){font-size:14px}.route .term-note{font-size:14px}.route-footnote{font-size:12px}.chapter-intro{grid-template-columns:1fr;gap:28px;margin-bottom:36px}.chapter-intro h2{font-size:30px;line-height:1.7;margin-top:24px}.chapter-intro figure{margin-left:35px}.chapter-intro img{aspect-ratio:1.35}.section-lead{font-size:16px;line-height:2}.ledger-title{font-size:19px}.work-ledger>li{grid-template-columns:22px 1fr;gap:13px;padding-block:27px}.work-no{font-size:18px}.work-heading h4{font-size:24px}.work-heading h4 br{display:none}.work-heading>p{font-size:14px}.work-explanation .term-note{font-size:14px}.branch-note{padding-left:19px}.branch-note h3{font-size:24px}.scope-boundary{padding:22px 20px}.scope-boundary dl>div{grid-template-columns:1fr;gap:7px}.scope-boundary dd{padding-left:14px;border-left:2px solid #a18a54}.topic-preparation h3{font-size:25px}.chapter-actions .text-link{font-size:14px;gap:15px}.deadline-note{padding:25px 21px}.deadline-note h3{font-size:25px}.deadline-note dl>div{grid-template-columns:1fr;gap:6px}.deadline-note dt{font-weight:600}.flow-list li{grid-template-columns:43px 1fr}.flow-list h3{font-size:22px}.step-tag{font-size:11px}.estimate dl>div{grid-template-columns:1fr;gap:8px}.estimate dt,.estimate dd{font-size:15px}.estimate-footnote{font-size:13px}.faq-list summary{font-size:16px;gap:10px}.faq-list details>p{font-size:16px;padding-left:0;padding-right:0}.reference-section{padding-bottom:45px}.reference-section summary>span{display:block;margin:5px 0 0 20px}.contact-button{font-size:13px}.hero-bottom{font-size:10px}.hero-bottom>span{max-width:190px}}
+.work-heading>p>.term-note{display:block}
+.estimate-heading{font-family:var(--sans)}
+.estimate-subheading{font:500 17px/1.8 var(--sans);margin-top:30px;margin-bottom:5px}
+
+@media(max-width:540px){.route-arrow{font-size:22px}}
+
+.construction .chapter-intro img{object-position:20% center}

diff --git a/demos/legal/content-design.md b/demos/legal/content-design.md
@@ -1,0 +1,42 @@
+# 紙と道 行政書士事務所 — 調査・情報設計の記録
+
+確認日：2026年9月26日。架空の事務所を使った國分Web製作所の制作デモです。既存サイトの業務紹介を転載せず、業務の事実を確認したうえで、相談者の疑問に沿って独自に構成・執筆しました。写真は従来の生成画像3点を継続使用し、建設業の章に合う写真1点を新たに生成しました。組み込みの画像生成ツールを使用し、配信用画像は `images/construction.webp`、最終プロンプトと生成元ファイル・寸法・ハッシュは [sources.json](sources.json) に保存しています。
+
+## 相談者が判断する順に並べる
+
+冒頭で「家族の手続き」と「建設業の仕事」に分岐し、同じ1ページ内の該当箇所へ移動します。各章は「いまの困りごと → 依頼できる作業 → 整理・作成するもの → 対応範囲や期日 → 最初に伝えること」の順です。共通する依頼の流れと費用は一度だけ掲載しました。
+
+業務名を羅列する代わりに、「受け継ぐ人を確かめる」「決まった分け方を書類にする」のように目的を見出しにしています。専門用語は残し、各章の初出付近に、短い説明を常時表示します。本文と注釈を離さず、ホバー操作や用語集への移動を必要としない設計です。
+
+## 設計の根拠と適用
+
+| 根拠 | このページへの適用 |
+| --- | --- |
+| [GOV.UK：ユーザーの必要から始めるコンテンツ設計](https://guidance.publishing.service.gov.uk/writing-to-gov-uk-standards/plan-manage-content/understand-content-design/) | 書類名を知っている前提にせず、生活・仕事上の状況から探せる入口にする。 |
+| [GOV.UK：明確な言葉を使う](https://guidance.publishing.service.gov.uk/writing-to-gov-uk-standards/writing-guidelines/clear-language/) | 短い文、具体的な動作、担当する人が分かる説明を使う。 |
+| [W3C WAI COGA：Use Clear Words](https://www.w3.org/WAI/WCAG2/supplemental/patterns/o3p01-clear-words/) | 遺産分割協議書・許可要件・決算変更届などに、読む場所で分かる注釈を付ける。 |
+| [W3C COGA：短いまとまりで示す](https://www.w3.org/TR/coga-usable/#use-short-chunks-of-text-pattern) | 業務を目的別の短い行に分け、見出しと作業後に得られるものを同じ順序で示す。 |
+| [Chandler & Sweller（1992）：The split-attention effect as a factor in the design of instruction](https://bpspsychub.onlinelibrary.wiley.com/doi/abs/10.1111/j.2044-8279.1992.tb01017.x) | 関連する本文と用語説明を近接させ、離れた説明を覚えて照合する負担を抑える、という設計仮説に用いる。 |
+| [GOV.UK Design System：Details](https://design-system.service.gov.uk/components/details/) | 対応範囲・費用・重要な期限は隠さず、FAQと確認資料の詳細だけを開閉式にする。 |
+
+COGAは補足ガイダンスであり、それだけでWCAGへの適合を証明するものではありません。認知科学の研究は教材を対象としたもので、このサイトでの理解率・問い合わせ率の改善を測定したわけではありません。日本語の相談者によるユーザビリティ検証は今後の課題です。
+
+## 業務と制度の確認先
+
+| 確認したこと | 一次資料 |
+| --- | --- |
+| 相続に関する調査・書類作成、紛争・税務・登記申請との業務範囲の区別 | [日本行政書士会連合会：遺言・相続](https://www.gyosei.or.jp/service/testament) |
+| 戸籍等の収集、相続関係の整理、遺言作成の支援 | [福島県行政書士会：遺言・相続](https://fukushima-gyosei.jp/about01/yuigon/) |
+| 財産調査の対象に負債も含むこと | [日本行政書士会連合会：行政書士活用ガイド](https://www.gyosei.or.jp/sites/default/files/1699494803/%E8%A1%8C%E6%94%BF%E6%9B%B8%E5%A3%AB%E6%B4%BB%E7%94%A8%E3%82%AC%E3%82%A4%E3%83%89.pdf) |
+| 建設業許可の申請書類作成・代理申請、取得後の届出 | [日本行政書士会連合会：建設業・宅地建物取引業](https://www.gyosei.or.jp/service/construction) |
+| 工事別の許可、軽微な工事の例外、有効期間5年・更新申請は満了30日前まで | [国土交通省：建設業の許可とは](https://www.mlit.go.jp/totikensangyo/const/1_6_bt_000080.html) |
+| 経営の経験、技術者、資金、保険など、許可取得に必要な条件 | [国土交通省：許可の要件](https://www.mlit.go.jp/totikensangyo/const/1_6_bt_000082.html) |
+| 「営業所技術者等」の現行表記 | [東京都：令和8年度 建設業許可の手引と申請書類](https://www.toshiseibi.metro.tokyo.lg.jp/kenchiku_kaihatsu/kenchiku_shidou/gyosya_shido/kensetsu/kensetsu_kyoka_tebiki3) |
+| 毎年の届出は事業年度終了後4か月以内、変更内容により期限が異なること | [栃木県：許可に際する注意事項・変更届出等](https://www.pref.tochigi.lg.jp/h01/work/kensetsugyou/kyoka/1281925868251.html) / [愛知県：許可後の届出](https://www.pref.aichi.jp/site/kensetsugyo-fudosangyo/todokede.html) |
+| 相続放棄は期限のある家庭裁判所の手続きであること | [裁判所：相続の放棄の申述](https://www.courts.go.jp/saiban/syurui/syurui_kazi/kazi_06_13/index.html) |
+
+更新期限と毎年の報告期限は取り違えやすいため、業務一覧と別に並べて表示しています。変更届の期限は一律にしません。工事金額だけの許可診断、許可取得の保証、提携先の捏造、架空の料金・実績は掲載していません。
+
+## 更新時の確認
+
+法令・申請先の運用が変わったときは、本文と注釈、期限欄、確認日を一緒に更新します。専門用語を追加した場合は、その章へ直接来た人にも説明が読めるか確認します。元の1ページ構成・生成写真・制作相談へのリンクを維持しています。

diff --git a/demos/README.md b/demos/README.md
@@ -6,14 +6,14 @@
 | --- | --- | --- | --- |
 | 設備会社 | 澄川設備 | `equipment/` | 対応範囲、施工内容、見積もり前の確認事項 |
 | 不動産会社 | 間と庭不動産 | `real-estate/` | 住まいの雰囲気、比較項目、現地で確かめること |
-| 行政書士事務所 | 紙と道 行政書士事務所 | `legal/` | 相談したいことから探せる業務、用語の説明、必要な準備 |
+| 行政書士事務所 | 紙と道 行政書士事務所 | `legal/` | 相続・建設業許可の相談別の入口、専門用語の注釈、業務範囲と準備 |
 | 税理士事務所 | 青庭会計室 | `tax/` | 事業の段階に合う支援、役割分担、費用が変わる要因 |
 
 各ページはHTMLとCSSを中心に構成し、FAQなどは標準の `details` 要素で操作できます。制作相談のリンクは國分Web製作所の相談ページへ移動します。`?demo=` の指定がある場合は、見ていたデモを伝える相談文が表示されます。デモ事業者への問い合わせや、個人情報を送信するフォームは設置していません。
 
 ## 写真とプレビュー
 
-- 写真16点は、この制作のために組み込みの `image_gen` で生成した架空の風景・人物・作業場面です。外部サイトの写真は使用していません。
+- 掲載写真は各ページ4点、全16点です。この制作のために組み込みの `image_gen` で生成した架空の風景・人物・作業場面です。外部サイトの写真は使用していません。
 - 実在の企業ロゴ、既存写真、著名な建物、特定の作家の作風を指定せずに生成しています。
 - 各デモの `images/*.webp` が配信用の最終画像です。生成指示の内容、元の生成ファイル名、寸法、SHA-256は各フォルダの `sources.json` に保存しています。
 - 配信用画像には縮小とWebP形式への変換のみを行っています。生成された元画像は画像生成の出力先に保持しています。
@@ -22,3 +22,7 @@
 ## 表示上の区別
 
 事業者・物件・施工事例・サービス設定は架空であることを、ページ上部と各例・フッターに記載しています。実在の実績や資格番号、所在地、電話番号、利用者の声を捏造していません。デモページは `noindex,follow` とし、実在の事業者の検索結果と混同されない構成にしています。
+
+## 行政書士デモの情報設計
+
+2026年9月26日に、業務テーマを相続関係と建設業許可に変更しました。建設業の写真を1点新たに生成し、旧画像は生成記録とともに保持しています。確認した一次資料、用語の扱い、プレインランゲージと認知負荷に関する設計意図は [調査・設計記録](legal/content-design.md) に記載しています。
